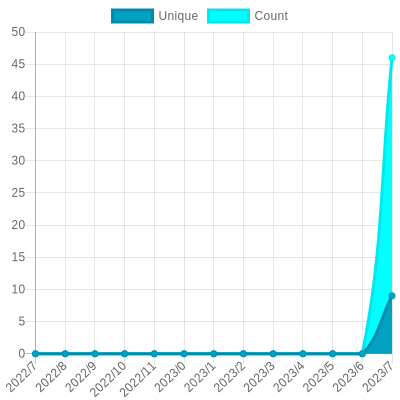
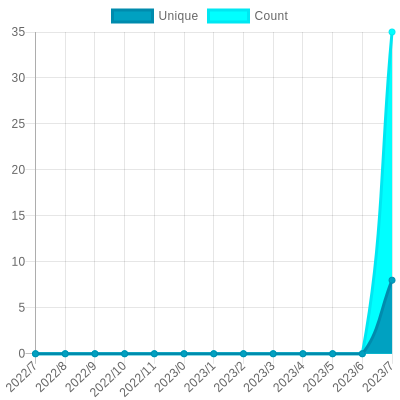
Update views

diff --git a/readme/522485653/year.md b/readme/522485653/year.md
@@ -23,10 +23,10 @@
 			<code>2022/8/1</code>
 		</td>
 		<td>
-			<code>9</code>
+			<code>8</code>
 		</td>
 		<td>
-			<code>46</code>
+			<code>35</code>
 		</td>
 	</tr>
 	<tr>
@@ -164,7 +164,7 @@
 </table>
 
 </details>
-<small><i>Last updated on 2022/8/26 12:41 PM UTC</i></small>
+<small><i>Last updated on 2022/8/26 6:26 PM UTC</i></small>
 
 ## ✂Copy and 📋 Paste
 ### SVG Badge

diff --git a/README.md b/README.md
@@ -117,7 +117,7 @@ The project created and maintained by [gayanvoice](https://github.com/gayanvoice
 	</tr>
 </table>
 
-<small><i>Last updated on 2022/8/26 12:42 PM UTC</i></small>
+<small><i>Last updated on 2022/8/26 6:26 PM UTC</i></small>
 
 ## ✂Copy and 📋 Paste
 ### Total Views Badge

diff --git a/readme/286552411/year.md b/readme/286552411/year.md
@@ -164,7 +164,7 @@
 </table>
 
 </details>
-<small><i>Last updated on 2022/8/26 12:41 PM UTC</i></small>
+<small><i>Last updated on 2022/8/26 6:26 PM UTC</i></small>
 
 ## ✂Copy and 📋 Paste
 ### SVG Badge

diff --git a/readme/506747833/year.md b/readme/506747833/year.md
@@ -164,7 +164,7 @@
 </table>
 
 </details>
-<small><i>Last updated on 2022/8/26 12:42 PM UTC</i></small>
+<small><i>Last updated on 2022/8/26 6:26 PM UTC</i></small>
 
 ## ✂Copy and 📋 Paste
 ### SVG Badge

diff --git a/readme/507124425/year.md b/readme/507124425/year.md
@@ -164,7 +164,7 @@
 </table>
 
 </details>
-<small><i>Last updated on 2022/8/26 12:42 PM UTC</i></small>
+<small><i>Last updated on 2022/8/26 6:26 PM UTC</i></small>
 
 ## ✂Copy and 📋 Paste
 ### SVG Badge

diff --git a/readme/509082049/year.md b/readme/509082049/year.md
@@ -164,7 +164,7 @@
 </table>
 
 </details>
-<small><i>Last updated on 2022/8/26 12:41 PM UTC</i></small>
+<small><i>Last updated on 2022/8/26 6:26 PM UTC</i></small>
 
 ## ✂Copy and 📋 Paste
 ### SVG Badge

diff --git a/readme/524644743/year.md b/readme/524644743/year.md
@@ -164,7 +164,7 @@
 </table>
 
 </details>
-<small><i>Last updated on 2022/8/26 12:41 PM UTC</i></small>
+<small><i>Last updated on 2022/8/26 6:25 PM UTC</i></small>
 
 ## ✂Copy and 📋 Paste
 ### SVG Badge
